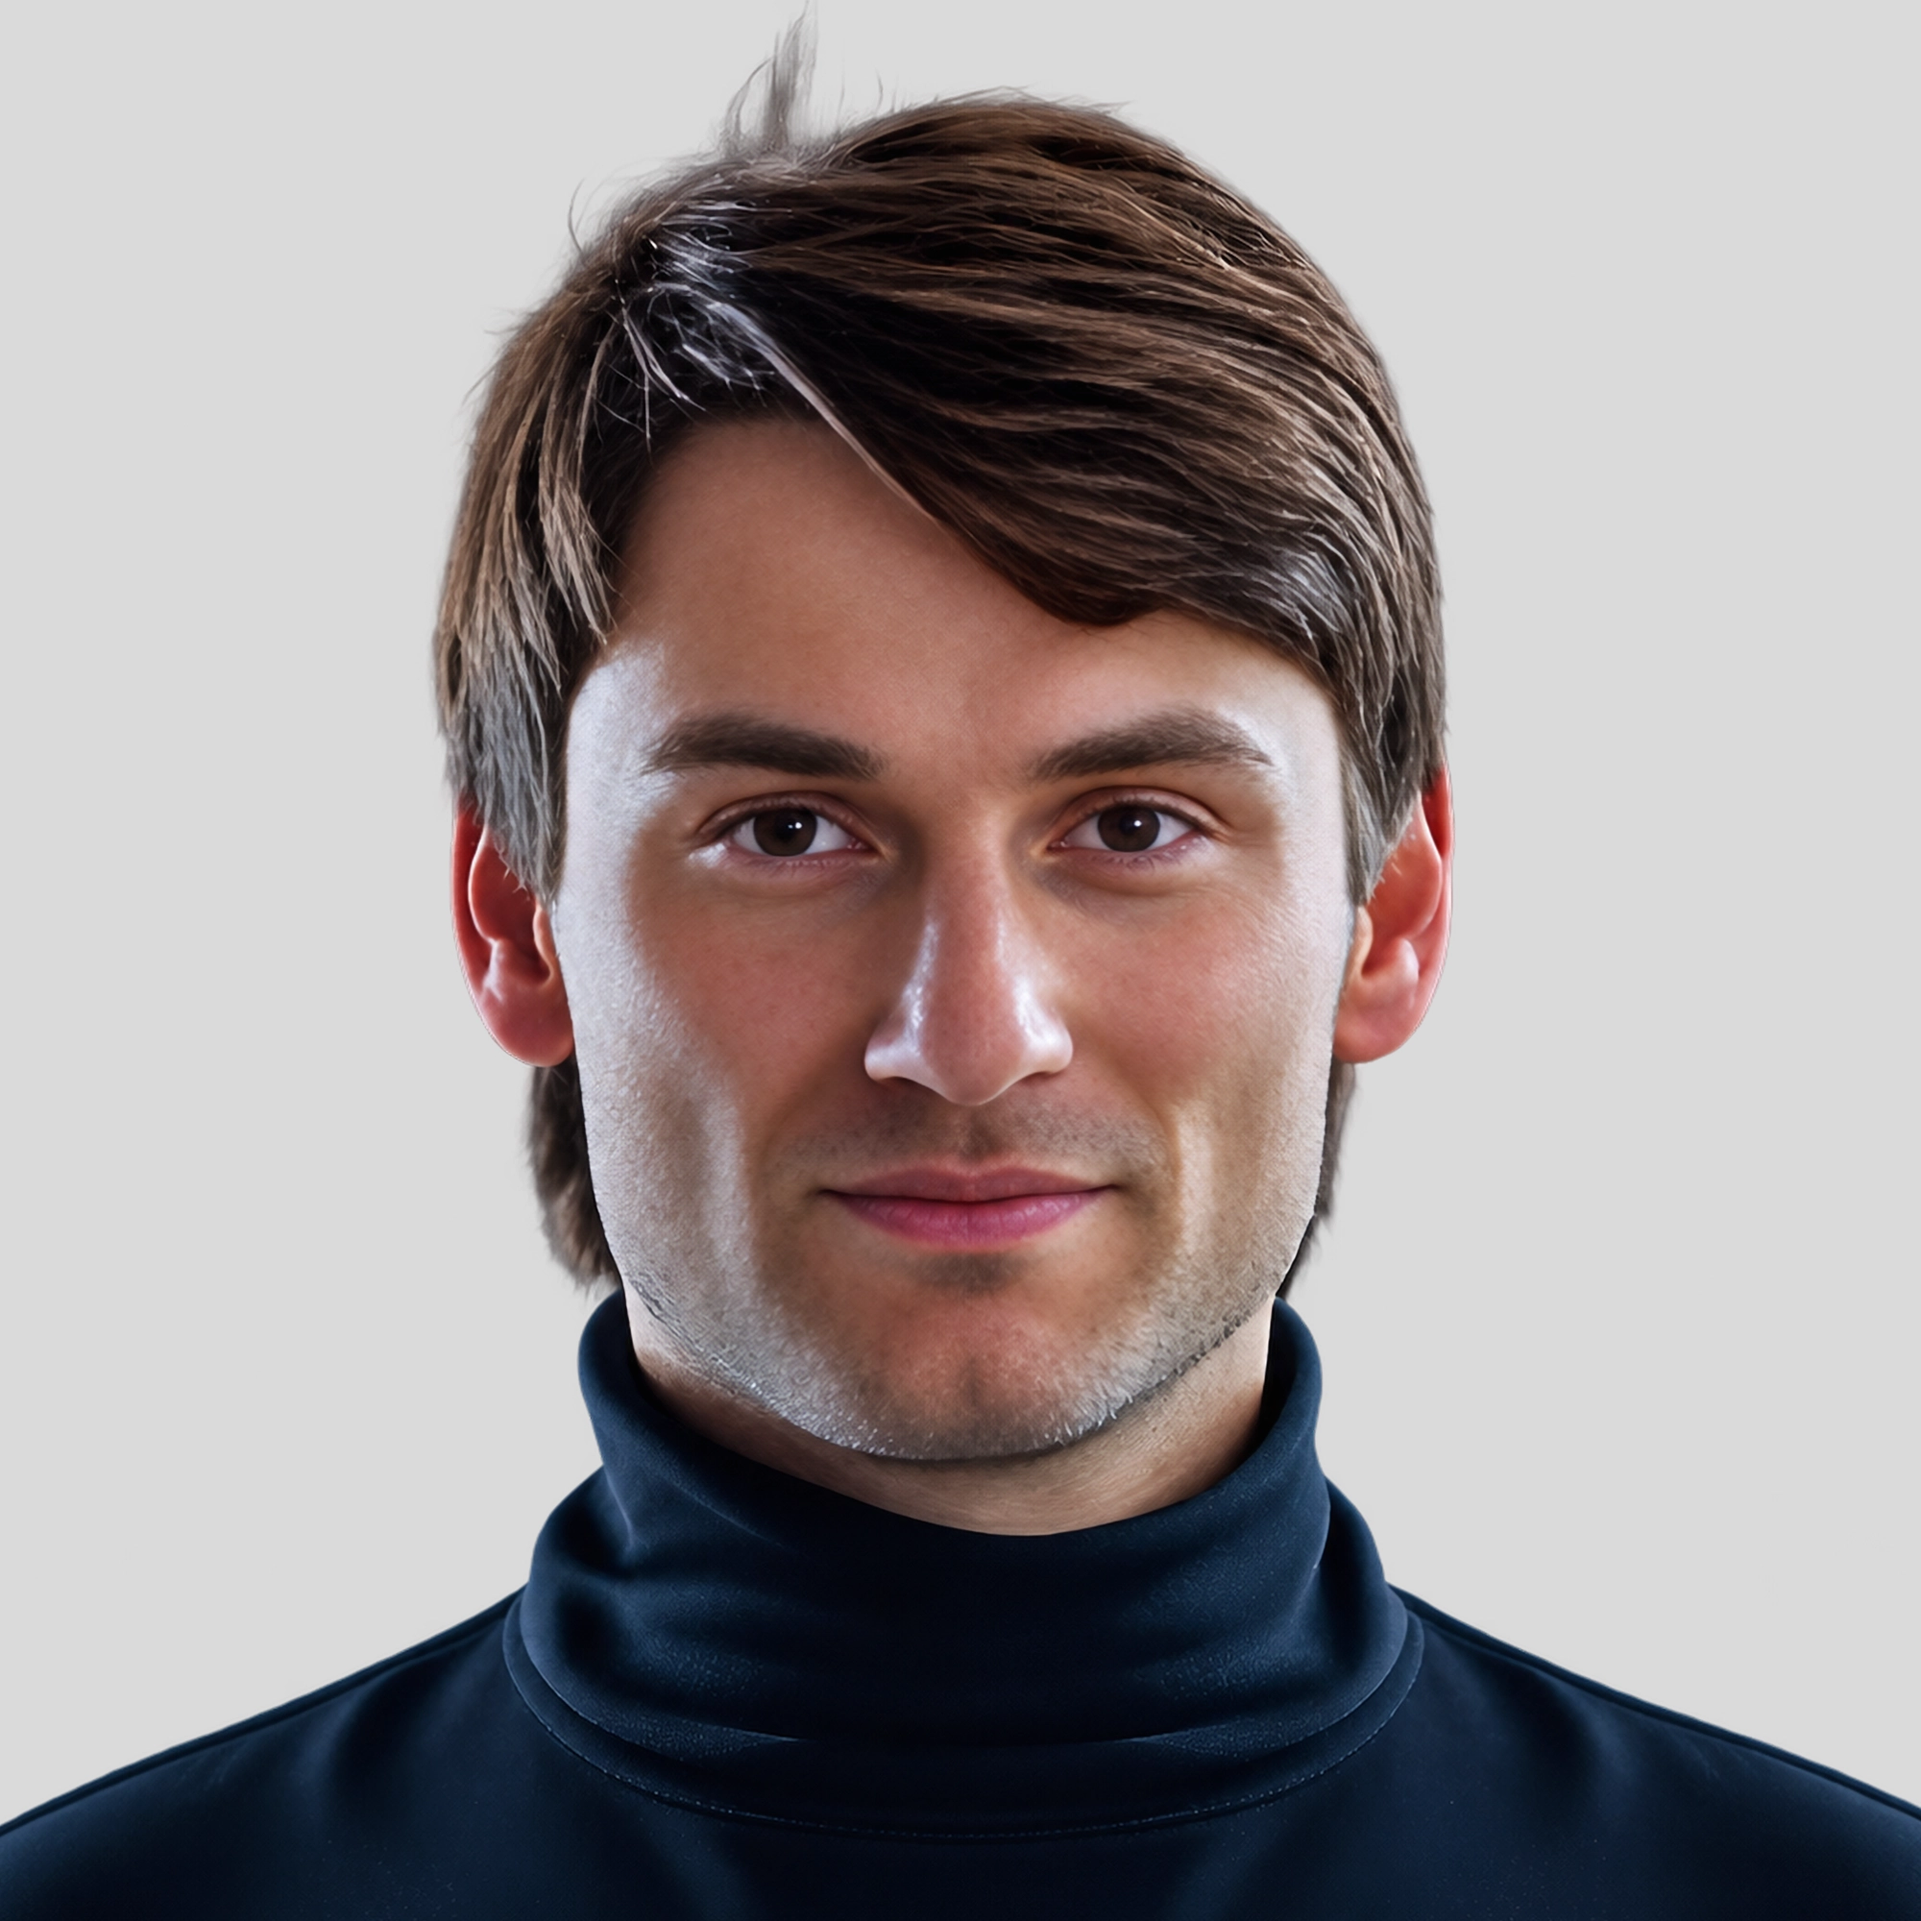
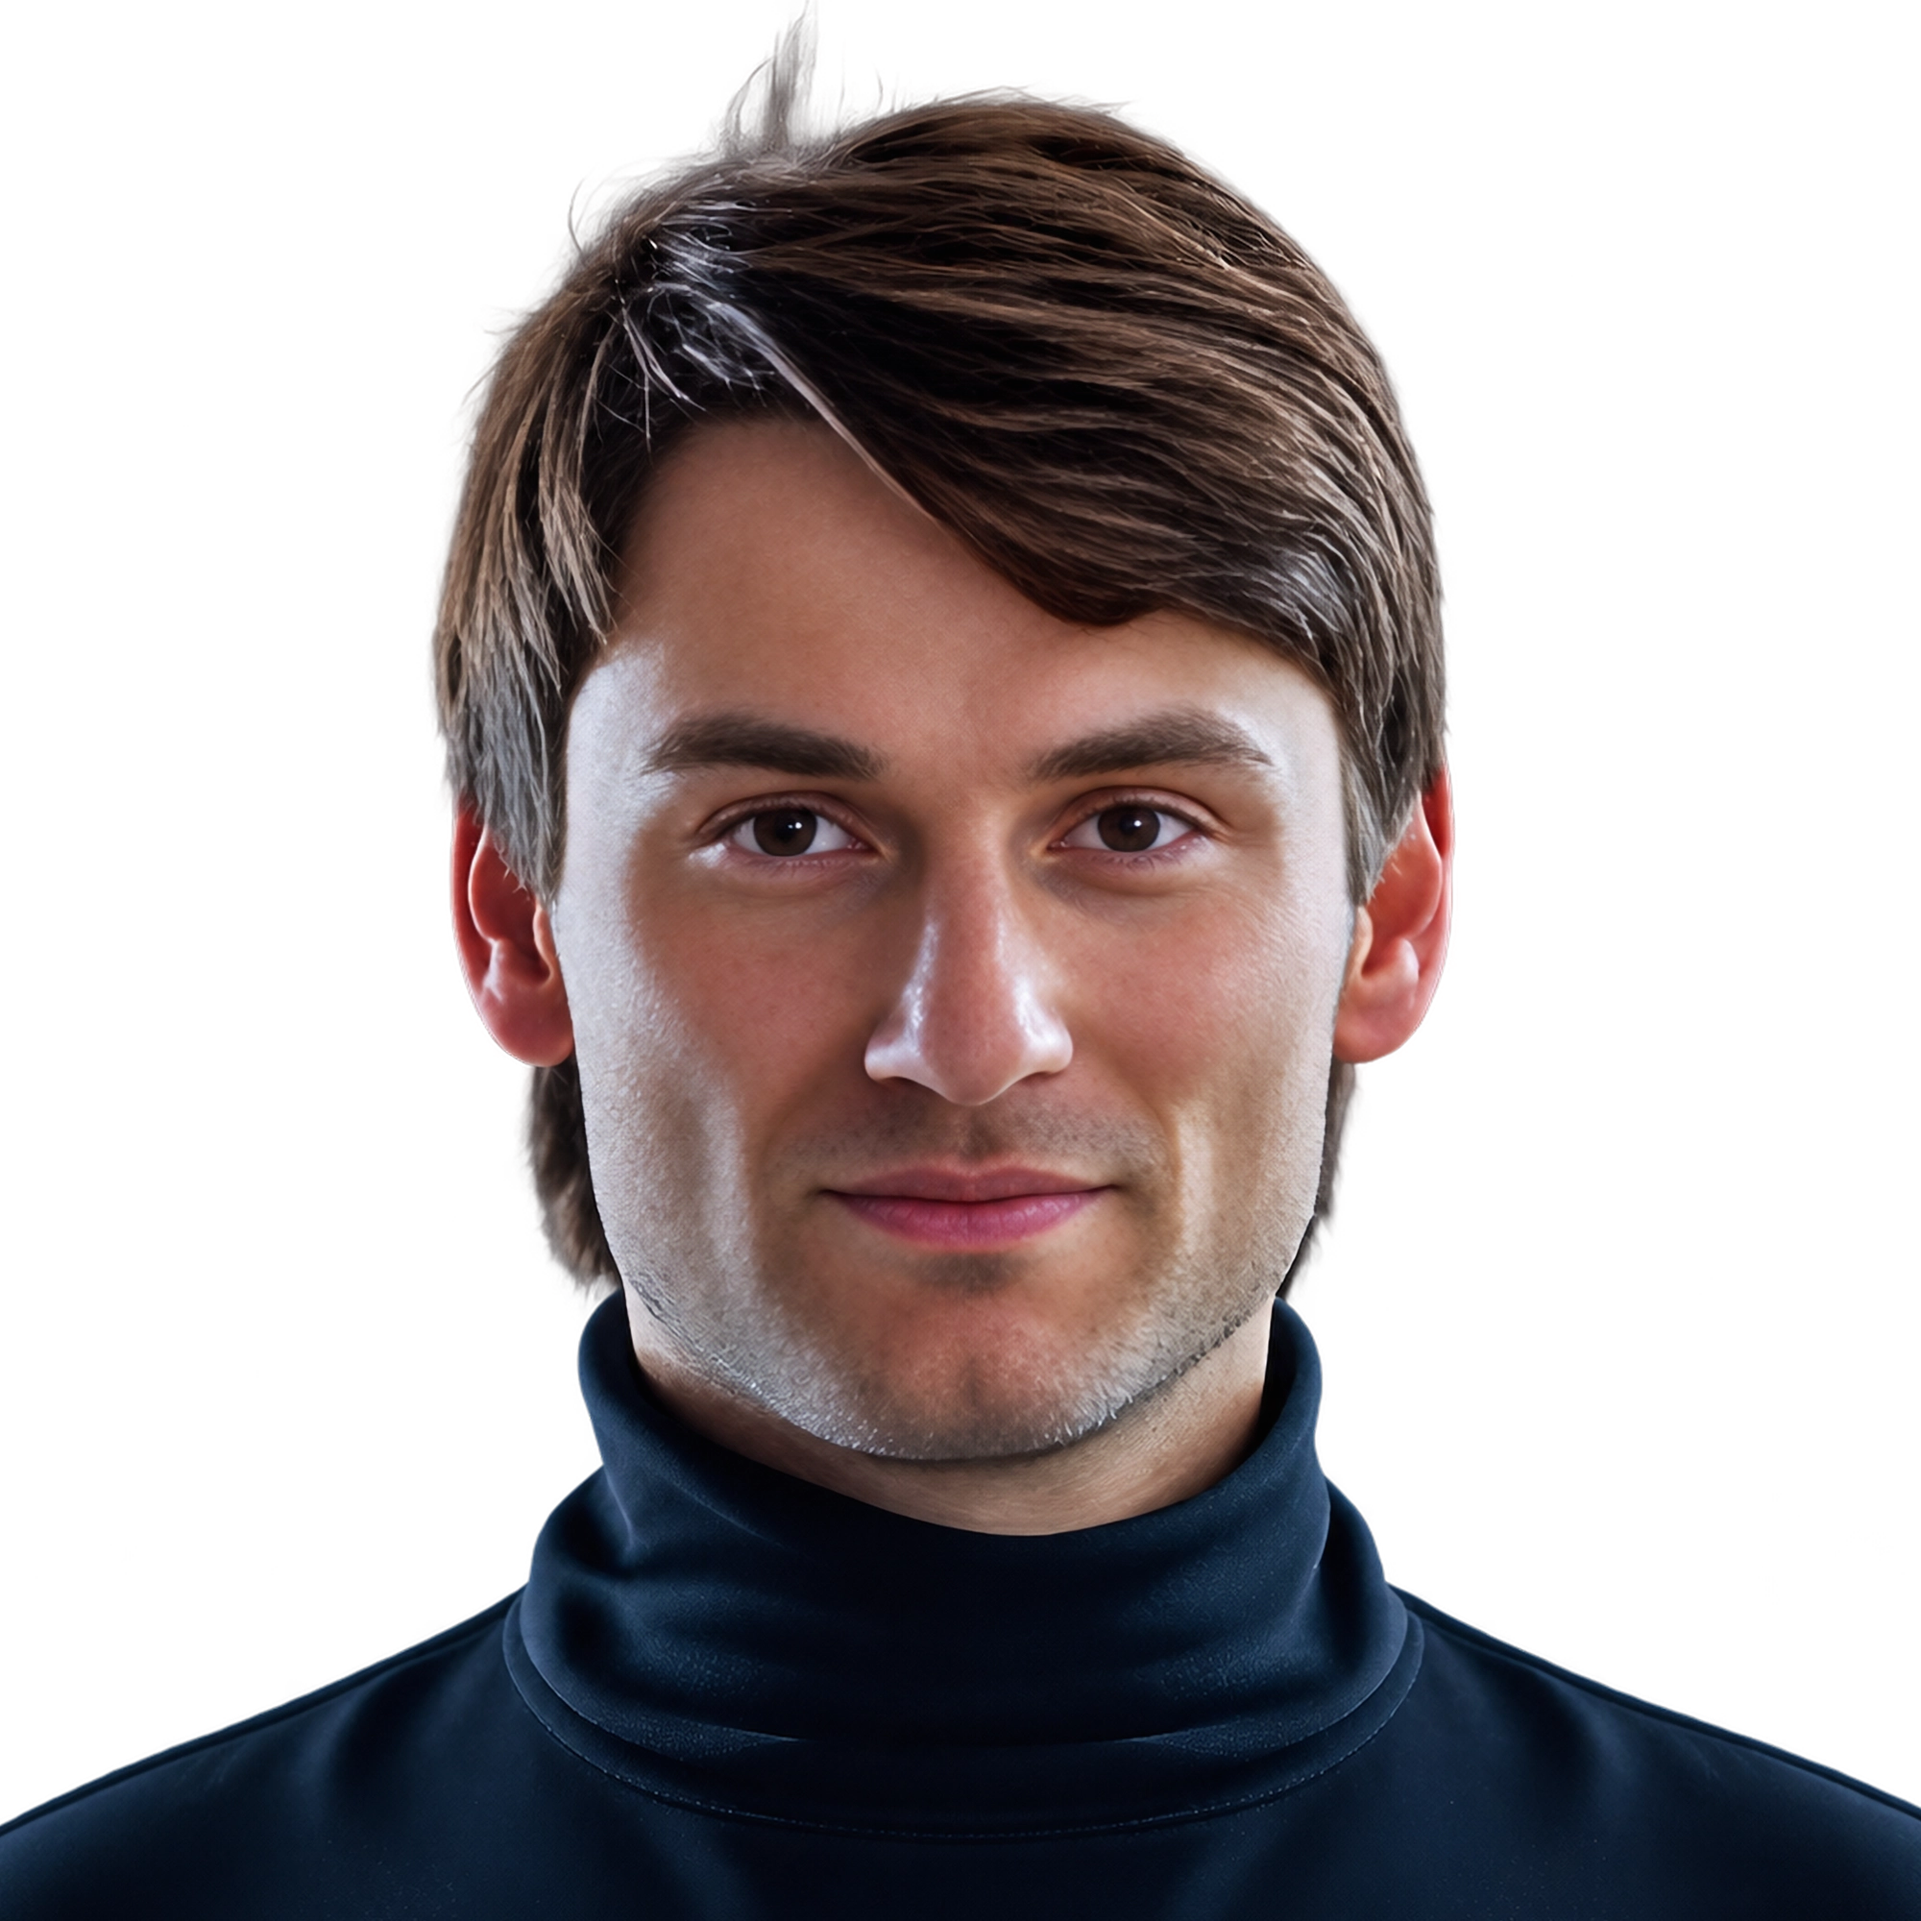
Replace the Team slide photos with transparent portraits (#7)
- Team slide: the 11 portraits are the transparent WebPs from the shared people library, on a light green backdrop and ring set by three tokens in foundation.css (--bg-photo-from, --bg-photo-to, --border-photo).
- Viacheslav Danilov's role reads "Lead AI/ML Engineer" on the Team slide and "Lead ML/AI Engineer and Senior Research Scientist" on the Prelude slide.
- The Prelude role is sized against its own width (4.355cqw), so it stays on one line from 360 to 1920 px wide once the web font has loaded.
- Maria Poca's alt text override is dropped, so no middle initial is shown.

diff --git a/src/app/components/slides/SlideTeam.tsx b/src/app/components/slides/SlideTeam.tsx
@@ -7,20 +7,20 @@ const groups = [
       {
         first: 'Turgut',
         last: 'Durduran',
-        photo: 'turgut-durduran.png',
+        photo: 'turgut-durduran.webp',
         role: 'Principal Investigator',
       },
       {
         first: 'Mirko',
         last: 'Fornasier',
-        photo: 'mirko-fornasier.png',
+        photo: 'mirko-fornasier.webp',
         role: 'Doctoral Researcher',
       },
-      { first: 'Carolina', last: 'Vega', photo: 'carolina-vega.png', role: 'Doctoral Researcher' },
+      { first: 'Carolina', last: 'Vega', photo: 'carolina-vega.webp', role: 'Doctoral Researcher' },
       {
         first: 'Monica',
         last: 'Torrecilla',
-        photo: 'monica-torrecilla.png',
+        photo: 'monica-torrecilla.webp',
         role: 'Doctoral Researcher',
       },
     ],
@@ -32,10 +32,15 @@ const groups = [
         first: 'Viacheslav',
         last: 'Danilov',
         photo: 'viacheslav-danilov.webp',
+        role: 'Lead AI/ML Engineer',
+      },
+      { first: 'Gemma', last: 'Piella', photo: 'gemma-piella.webp', role: 'Professor' },
+      {
+        first: 'Anton',
+        last: 'Makoveev',
+        photo: 'anton-makoveev.webp',
         role: 'Research Scientist',
       },
-      { first: 'Gemma', last: 'Piella', photo: 'gemma-piella.png', role: 'Professor' },
-      { first: 'Anton', last: 'Makoveev', photo: 'anton-makoveev.png', role: 'Research Scientist' },
     ],
   },
   {
@@ -44,15 +49,14 @@ const groups = [
       {
         first: 'Maria',
         last: 'Poca',
-        photo: 'maria-poca.png',
-        alt: 'Maria A. Poca',
+        photo: 'maria-poca.webp',
         role: 'Head of Neurosurgery',
       },
-      { first: 'Juan', last: 'Sahuquillo', photo: 'juan-sahuquillo.png', role: 'Neurosurgeon' },
+      { first: 'Juan', last: 'Sahuquillo', photo: 'juan-sahuquillo.webp', role: 'Neurosurgeon' },
       {
         first: 'Murad',
         last: 'Al-Nusaif',
-        photo: 'murad-al-nusaif.png',
+        photo: 'murad-al-nusaif.webp',
         role: 'Doctoral Researcher',
       },
     ],
@@ -60,7 +64,7 @@ const groups = [
   {
     institution: 'ProCareLight',
     members: [
-      { first: 'Youcef', last: 'Lebour', photo: 'youcef-lebour.png', role: 'Research Engineer' },
+      { first: 'Youcef', last: 'Lebour', photo: 'john-doe.webp', role: 'Research Engineer' },
     ],
   },
 ];
@@ -87,12 +91,12 @@ export default function SlideTeam() {
             <div key={group.institution} className={`team-group animate-in stagger-${index + 4}`}>
               <p className="label team-group-label">{group.institution}</p>
               <div className="team-members">
-                {group.members.map(({ first, last, photo, alt, role }) => (
+                {group.members.map(({ first, last, photo, role }) => (
                   <figure key={last} className="team-member">
                     <Image
                       className="team-avatar"
                       src={`/slide-team/${photo}`}
-                      alt={alt ?? `${first} ${last}`}
+                      alt={`${first} ${last}`}
                       width={200}
                       height={200}
                     />

diff --git a/src/app/components/slides/SlidePrelude.tsx b/src/app/components/slides/SlidePrelude.tsx
@@ -11,7 +11,11 @@ export default function SlidePrelude() {
             Viacheslav Danilov, PhD
           </h2>
 
-          <p className="prelude-role animate-in stagger-3">ML/AI Engineer and Research Scientist</p>
+          <p className="prelude-role animate-in stagger-3">
+            <span className="prelude-role-text">
+              Lead ML/AI Engineer and Senior Research Scientist
+            </span>
+          </p>
 
           <p className="prelude-bio animate-in stagger-4">
             Working at the intersection of AI, optical sensing, and translational health technology

diff --git a/src/app/styles/slides/slide-team.css b/src/app/styles/slides/slide-team.css
@@ -58,7 +58,13 @@
   height: 6rem;
   border-radius: 999px;
   object-fit: cover;
-  border: 2px solid var(--accent-medium);
+  border: 2px solid var(--border-photo);
+  background-image: radial-gradient(
+    farthest-corner at 50% 40%,
+    var(--bg-photo-from),
+    var(--bg-photo-to)
+  );
+  background-clip: padding-box;
   flex-shrink: 0;
   transition:
     transform 0.2s var(--ease-out-expo),

diff --git a/src/app/styles/slides/slide-prelude.css b/src/app/styles/slides/slide-prelude.css
@@ -11,9 +11,15 @@
 }
 
 .prelude-role {
+  container-type: inline-size;
   font-size: var(--subtitle-size);
   color: var(--text-secondary);
   line-height: 1.45;
+}
+
+/* At 4.355cqw the text fills 99.6% of the role's width, so it is one line at any width */
+.prelude-role-text {
+  font-size: min(var(--subtitle-size), 4.355cqw);
 }
 
 .prelude-bio {

diff --git a/src/app/styles/foundation.css b/src/app/styles/foundation.css
@@ -11,6 +11,11 @@
   --bg-secondary: #f7f8fa;
   --bg-surface: #f0f2f5;
 
+  /* Portrait backdrop and ring on the Team slide */
+  --bg-photo-from: #f7fcfb;
+  --bg-photo-to: #c6e6e1;
+  --border-photo: #b8e0da;
+
   /* Accent (teal) */
   --accent: #0b6b5e;
   --accent-dark: #0a5c50;
